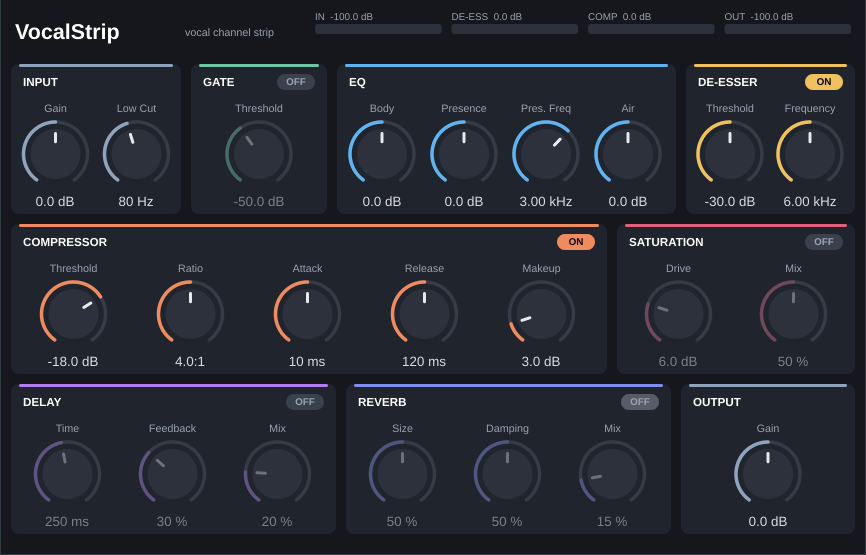
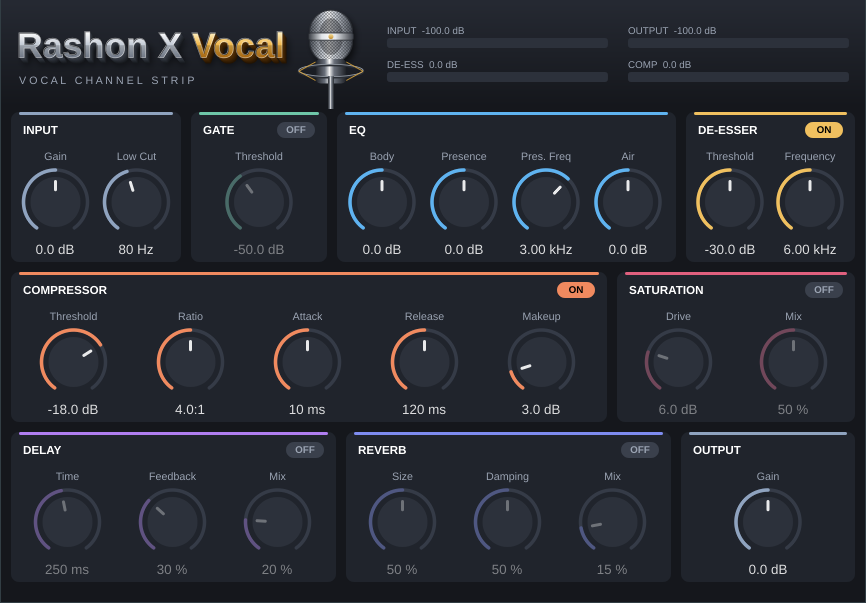
Rename to Rashon X Vocal; add 3D title and condenser mic artwork
The header now shows the name as raised chrome and gold lettering
with a vector-drawn studio condenser mic beside it, and the meters
sit in a 2x2 grid.

Claude-Session: https://claude.ai/code/session_011kPxtysHsQ9HbSUMELU1Sm

diff --git a/Source/PluginEditor.cpp b/Source/PluginEditor.cpp
@@ -8,7 +8,7 @@ namespace
 
     constexpr int knobWidth = 84;
     constexpr int rowHeight = 150;
-    constexpr int headerHeight = 64;
+    constexpr int headerHeight = 112;
     constexpr int gap = 10;
 }
 
@@ -182,7 +182,7 @@ void VocalStripEditor::timerCallback()
     outDb   = smooth (outDb, processor.outputLevelDb.load(), true);
     compGr  = smooth (compGr, processor.compReductionDb.load(), false);
     deEssGr = smooth (deEssGr, processor.getDeEssReductionDb(), false);
-    repaint (getLocalBounds().removeFromTop (headerHeight));
+    repaint (getLocalBounds().removeFromTop (headerHeight).withTrimmedLeft ((int) metersLeft));
 }
 
 void VocalStripEditor::drawMeter (juce::Graphics& g, juce::Rectangle<float> area, const juce::String& name,
@@ -205,24 +205,159 @@ void VocalStripEditor::drawMeter (juce::Graphics& g, juce::Rectangle<float> area
     g.fillRoundedRectangle (fill, 3.0f);
 }
 
+// Draws text as raised 3D lettering: soft shadow, a stepped extrusion, a metallic
+// gradient face and a thin bevel highlight along the top edges.
+static void draw3DText (juce::Graphics& g, const juce::String& text, juce::Font font, juce::Point<float> origin,
+                        juce::Colour top, juce::Colour middle, juce::Colour bottom, juce::Colour side)
+{
+    juce::GlyphArrangement glyphs;
+    glyphs.addLineOfText (font, text, origin.x, origin.y);
+    juce::Path face;
+    glyphs.createPath (face);
+    const auto bounds = face.getBounds();
+
+    juce::DropShadow (juce::Colours::black.withAlpha (0.7f), 10, { 5, 7 }).drawForPath (g, face);
+
+    constexpr int depth = 6;
+    for (int i = depth; i > 0; --i)
+    {
+        const float t = (float) i / (float) depth;
+        g.setColour (side.interpolatedWith (juce::Colours::black, t * 0.6f));
+        g.fillPath (face, juce::AffineTransform::translation (0.7f * (float) i, 0.9f * (float) i));
+    }
+
+    juce::ColourGradient grad (top, 0.0f, bounds.getY(), bottom, 0.0f, bounds.getBottom(), false);
+    grad.addColour (0.48, middle);
+    grad.addColour (0.52, middle.darker (0.25f));
+    g.setGradientFill (grad);
+    g.fillPath (face);
+
+    g.setColour (juce::Colours::white.withAlpha (0.55f));
+    g.strokePath (face, juce::PathStrokeType (0.8f), juce::AffineTransform::translation (-0.4f, -0.5f));
+    g.setColour (juce::Colours::black.withAlpha (0.35f));
+    g.strokePath (face, juce::PathStrokeType (0.6f));
+}
+
+// A large-diaphragm condenser studio mic in a shock mount, drawn with vector shapes.
+static void drawCondenserMic (juce::Graphics& g, juce::Rectangle<float> area)
+{
+    using juce::Colour;
+    const float w = juce::jmin (area.getWidth(), area.getHeight() * 0.42f);
+    const float cx = area.getCentreX();
+    const float y0 = area.getY();
+    const float h = area.getHeight();
+
+    auto metal = [] (juce::Rectangle<float> r, Colour dark, Colour light)
+    {
+        juce::ColourGradient grad (dark, r.getX(), 0.0f, dark, r.getRight(), 0.0f, false);
+        grad.addColour (0.3, light);
+        grad.addColour (0.45, juce::Colours::white.withAlpha (0.95f));
+        grad.addColour (0.6, light);
+        return grad;
+    };
+
+    // Head (capsule grille)
+    const auto head = juce::Rectangle<float> (cx - w * 0.5f, y0 + h * 0.02f, w, h * 0.52f);
+    juce::Path headPath;
+    headPath.addRoundedRectangle (head, w * 0.5f);
+    juce::DropShadow (juce::Colours::black.withAlpha (0.6f), 8, { 3, 4 }).drawForPath (g, headPath);
+    g.setGradientFill (metal (head, Colour (0xff4a4f58), Colour (0xffc9ced6)));
+    g.fillPath (headPath);
+
+    {   // Mesh pattern clipped to the grille
+        juce::Graphics::ScopedSaveState save (g);
+        g.reduceClipRegion (headPath);
+        g.setColour (Colour (0xff1c1f24).withAlpha (0.45f));
+        for (float d = -head.getHeight(); d < head.getWidth() + head.getHeight(); d += 3.2f)
+        {
+            g.drawLine (head.getX() + d, head.getY(), head.getX() + d - head.getHeight(), head.getBottom(), 0.6f);
+            g.drawLine (head.getX() + d - head.getHeight(), head.getY(), head.getX() + d, head.getBottom(), 0.6f);
+        }
+        // Darker inner capsule showing through the mesh
+        g.setColour (Colour (0xff101215).withAlpha (0.35f));
+        g.fillEllipse (head.reduced (w * 0.22f, h * 0.08f));
+    }
+    g.setColour (Colour (0xff2a2d33));
+    g.strokePath (headPath, juce::PathStrokeType (1.2f));
+
+    // Centre ring with a gold badge
+    const auto ring = juce::Rectangle<float> (head.getX() - 1.0f, head.getCentreY() - h * 0.035f, w + 2.0f, h * 0.07f);
+    g.setGradientFill (metal (ring, Colour (0xff3a3e45), Colour (0xffe3e6ea)));
+    g.fillRoundedRectangle (ring, 2.0f);
+    g.setColour (Colour (0xff2a2d33));
+    g.drawRoundedRectangle (ring, 2.0f, 0.8f);
+    const float badge = h * 0.05f;
+    g.setGradientFill (juce::ColourGradient (Colour (0xffffe9a8), cx, ring.getY(), Colour (0xffb8801f), cx, ring.getBottom(), false));
+    g.fillEllipse (cx - badge * 0.5f, ring.getCentreY() - badge * 0.5f, badge, badge);
+
+    // Body
+    const auto body = juce::Rectangle<float> (cx - w * 0.36f, head.getBottom() - h * 0.04f, w * 0.72f, h * 0.24f);
+    g.setGradientFill (metal (body, Colour (0xff1d2025), Colour (0xff6b717c)));
+    g.fillRoundedRectangle (body, w * 0.12f);
+
+    // Shock mount: elliptical ring with suspension bands
+    const auto mount = juce::Rectangle<float> (cx - w * 0.75f, body.getCentreY() - h * 0.06f, w * 1.5f, h * 0.12f);
+    g.setColour (Colour (0xff2b2f36));
+    g.drawEllipse (mount, 2.4f);
+    g.setColour (Colour (0xff9aa1ab));
+    g.drawEllipse (mount.translated (0.0f, -0.8f), 0.8f);
+    g.setColour (Colour (0xffd8a33a).withAlpha (0.85f));
+    for (float side : { -1.0f, 1.0f })
+    {
+        g.drawLine (cx + side * mount.getWidth() * 0.5f, mount.getCentreY(), cx + side * body.getWidth() * 0.5f, body.getY() + 3.0f, 1.0f);
+        g.drawLine (cx + side * mount.getWidth() * 0.5f, mount.getCentreY(), cx + side * body.getWidth() * 0.5f, body.getBottom() - 3.0f, 1.0f);
+    }
+
+    // Stand rod
+    const auto rod = juce::Rectangle<float> (cx - w * 0.07f, mount.getBottom() - 1.0f, w * 0.14f, area.getBottom() - mount.getBottom());
+    g.setGradientFill (metal (rod, Colour (0xff1d2025), Colour (0xff7d838d)));
+    g.fillRect (rod);
+}
+
 void VocalStripEditor::paint (juce::Graphics& g)
 {
     g.fillAll (background);
 
-    auto header = getLocalBounds().removeFromTop (headerHeight).reduced (gap + 4, 10).toFloat();
-    g.setColour (juce::Colours::white);
-    g.setFont (juce::FontOptions (24.0f, juce::Font::bold));
-    g.drawText ("VocalStrip", header.removeFromLeft (170.0f), juce::Justification::centredLeft);
+    auto headerBg = getLocalBounds().removeFromTop (headerHeight - 4).toFloat();
+    g.setGradientFill (juce::ColourGradient (juce::Colour (0xff262a33), 0.0f, 0.0f, background, 0.0f, headerBg.getBottom(), false));
+    g.fillRect (headerBg);
+
+    auto header = getLocalBounds().removeFromTop (headerHeight).reduced (gap + 6, 8).toFloat();
+
+    // Title: chrome "Rashon X" and gold "Vocal"
+    const juce::Font titleFont (juce::FontOptions (40.0f, juce::Font::bold));
+    const juce::String first = "Rashon X ", second = "Vocal";
+    const float baseline = header.getY() + 50.0f;
+    const float x0 = header.getX();
+    draw3DText (g, first, titleFont, { x0, baseline },
+                juce::Colour (0xffffffff), juce::Colour (0xffc4cbd6), juce::Colour (0xff6d7685), juce::Colour (0xff3b414c));
+    const float firstWidth = juce::GlyphArrangement::getStringWidth (titleFont, first);
+    draw3DText (g, second, titleFont, { x0 + firstWidth, baseline },
+                juce::Colour (0xfffff3c8), juce::Colour (0xfff2b84b), juce::Colour (0xffa8650f), juce::Colour (0xff5a3306));
+    const float titleWidth = firstWidth + juce::GlyphArrangement::getStringWidth (titleFont, second);
+
     g.setColour (textDim);
     g.setFont (juce::FontOptions (12.0f));
-    g.drawText ("vocal channel strip", header.removeFromLeft (130.0f), juce::Justification::centredLeft);
+    g.drawText ("V O C A L   C H A N N E L   S T R I P", juce::Rectangle<float> (x0 + 2.0f, baseline + 14.0f, titleWidth, 16.0f),
+                juce::Justification::centredLeft);
+    header.removeFromLeft (titleWidth + 14.0f);
 
-    const float meterW = (header.getWidth() - 3 * gap) / 4.0f;
-    auto meter = [&] { auto m = header.removeFromLeft (meterW); header.removeFromLeft ((float) gap); return m; };
-    drawMeter (g, meter(), "IN  " + juce::String (inDb, 1) + " dB", inDb, false, juce::Colour (0xff6ec6a8));
-    drawMeter (g, meter(), "DE-ESS  " + juce::String (deEssGr, 1) + " dB", deEssGr, true, juce::Colour (0xfff0c05f));
-    drawMeter (g, meter(), "COMP  " + juce::String (compGr, 1) + " dB", compGr, true, juce::Colour (0xfff08a5f));
-    drawMeter (g, meter(), "OUT  " + juce::String (outDb, 1) + " dB", outDb, false, juce::Colour (0xff6ec6a8));
+    // Studio mic to the right of the title
+    drawCondenserMic (g, header.removeFromLeft (64.0f).withTrimmedBottom (-6.0f));
+    header.removeFromLeft (24.0f);
+
+    // Meters in a 2 x 2 grid (the only part of the header redrawn by the timer)
+    metersLeft = header.getX() - 2.0f;
+    auto grid = header.withSizeKeepingCentre (header.getWidth(), 64.0f);
+    auto topRow = grid.removeFromTop (30.0f);
+    grid.removeFromTop (4.0f);
+    auto bottomRow = grid;
+    const float colW = (header.getWidth() - (float) gap * 2.0f) / 2.0f;
+    auto cell = [&] (juce::Rectangle<float>& row) { auto c = row.removeFromLeft (colW); row.removeFromLeft ((float) gap * 2.0f); return c; };
+    drawMeter (g, cell (topRow), "INPUT  " + juce::String (inDb, 1) + " dB", inDb, false, juce::Colour (0xff6ec6a8));
+    drawMeter (g, cell (topRow), "OUTPUT  " + juce::String (outDb, 1) + " dB", outDb, false, juce::Colour (0xff6ec6a8));
+    drawMeter (g, cell (bottomRow), "DE-ESS  " + juce::String (deEssGr, 1) + " dB", deEssGr, true, juce::Colour (0xfff0c05f));
+    drawMeter (g, cell (bottomRow), "COMP  " + juce::String (compGr, 1) + " dB", compGr, true, juce::Colour (0xfff08a5f));
 }
 
 void VocalStripEditor::resized()

diff --git a/Source/PluginEditor.h b/Source/PluginEditor.h
@@ -52,6 +52,7 @@ private:
     KnobLookAndFeel lnf;
     juce::OwnedArray<Section> sections;
     std::vector<std::vector<int>> rows;
+    float metersLeft = 0.0f;
     float inDb = -100.0f, outDb = -100.0f, compGr = 0.0f, deEssGr = 0.0f;
 
     JUCE_DECLARE_NON_COPYABLE_WITH_LEAK_DETECTOR (VocalStripEditor)

diff --git a/README.md b/README.md
@@ -1,8 +1,8 @@
-# VocalStrip
+# Rashon X Vocal
 
 An all-in-one vocal channel strip plugin (VST3 for Windows), built with [JUCE](https://juce.com).
 
-![VocalStrip](docs/screenshot.png)
+![Rashon X Vocal](docs/screenshot.png)
 
 ## Signal chain
 
@@ -25,8 +25,8 @@ Meters at the top show input level, de-esser and compressor gain reduction, and 
 Every push to GitHub builds the plugin automatically:
 
 1. Open the repo's **Actions** tab and click the latest **Build plugin** run.
-2. Download **VocalStrip-Windows** under *Artifacts* and unzip it.
-3. Follow `INSTALL.txt` (copy `VocalStrip.vst3` to `C:\Program Files\Common Files\VST3\`).
+2. Download **RashonXVocal-Windows** under *Artifacts* and unzip it.
+3. Follow `INSTALL.txt` (copy `Rashon X Vocal.vst3` to `C:\Program Files\Common Files\VST3\`).
 
 ## Building yourself
 
@@ -37,7 +37,7 @@ cmake -B build
 cmake --build build --config Release
 ```
 
-The plugin ends up in `build/VocalStrip_artefacts/Release/VST3/`.
+The plugin ends up in `build/VocalStrip_artefacts/Release/VST3/` (as `Rashon X Vocal.vst3`).
 
 Run the audio smoke test (Linux or macOS):
 
